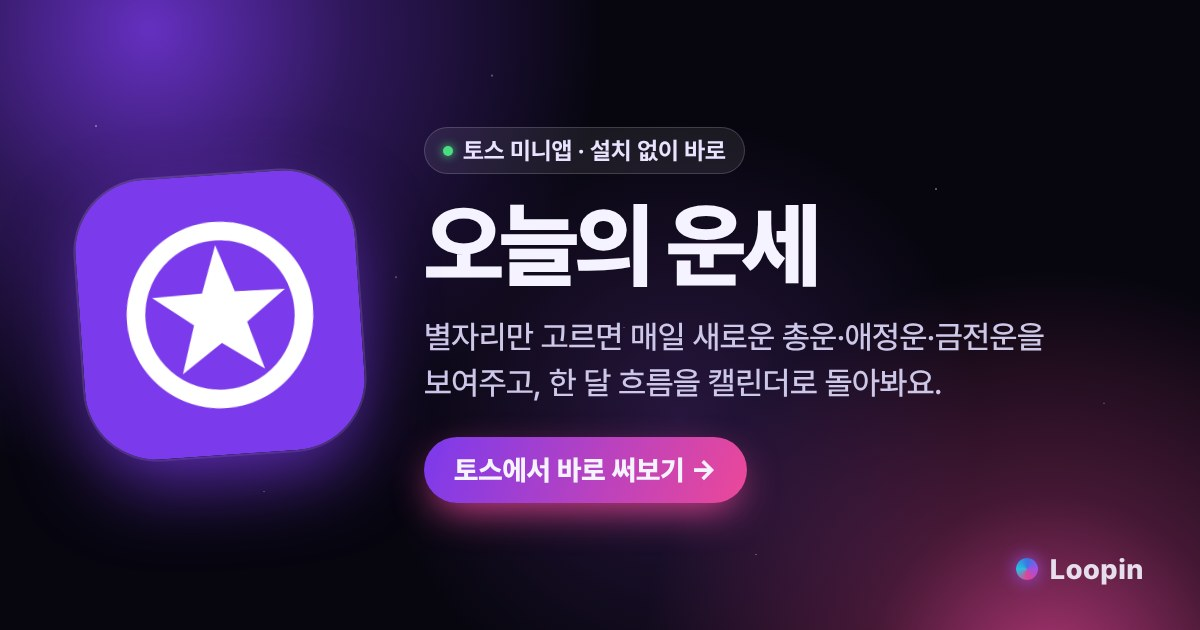
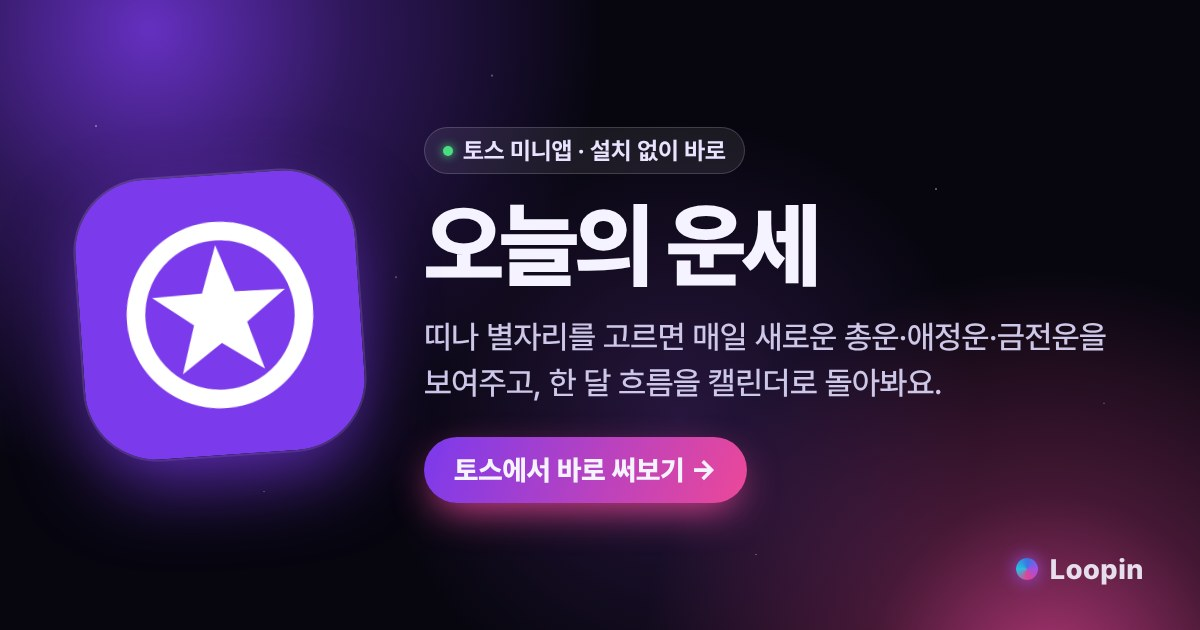
Mention zodiac animal support in the daily fortune description
Claude-Session: https://claude.ai/code/session_01WZcmb381vL11N3MppBg2va

Changed region(s): [[0.3392, 0.5127, 0.925, 0.573]]

diff --git a/apps.js b/apps.js
@@ -26,7 +26,7 @@ window.APPS = [
     name: "오늘의 운세",
     appName: "myfortune100",
     link: "https://tossminiapp.com/s/lRWp02z7", // 토스 공식 공유 링크(토스가 없으면 스토어로 이동)
-    desc: "별자리만 고르면 매일 새로운 총운·애정운·금전운을 보여주고, 한 달 흐름을 캘린더로 돌아봐요.",
+    desc: "띠나 별자리를 고르면 매일 새로운 총운·애정운·금전운을 보여주고, 한 달 흐름을 캘린더로 돌아봐요.",
     tag: "운세·재미",
     icon: "assets/icons/daily-fortune.png",
     emoji: "🔮",
